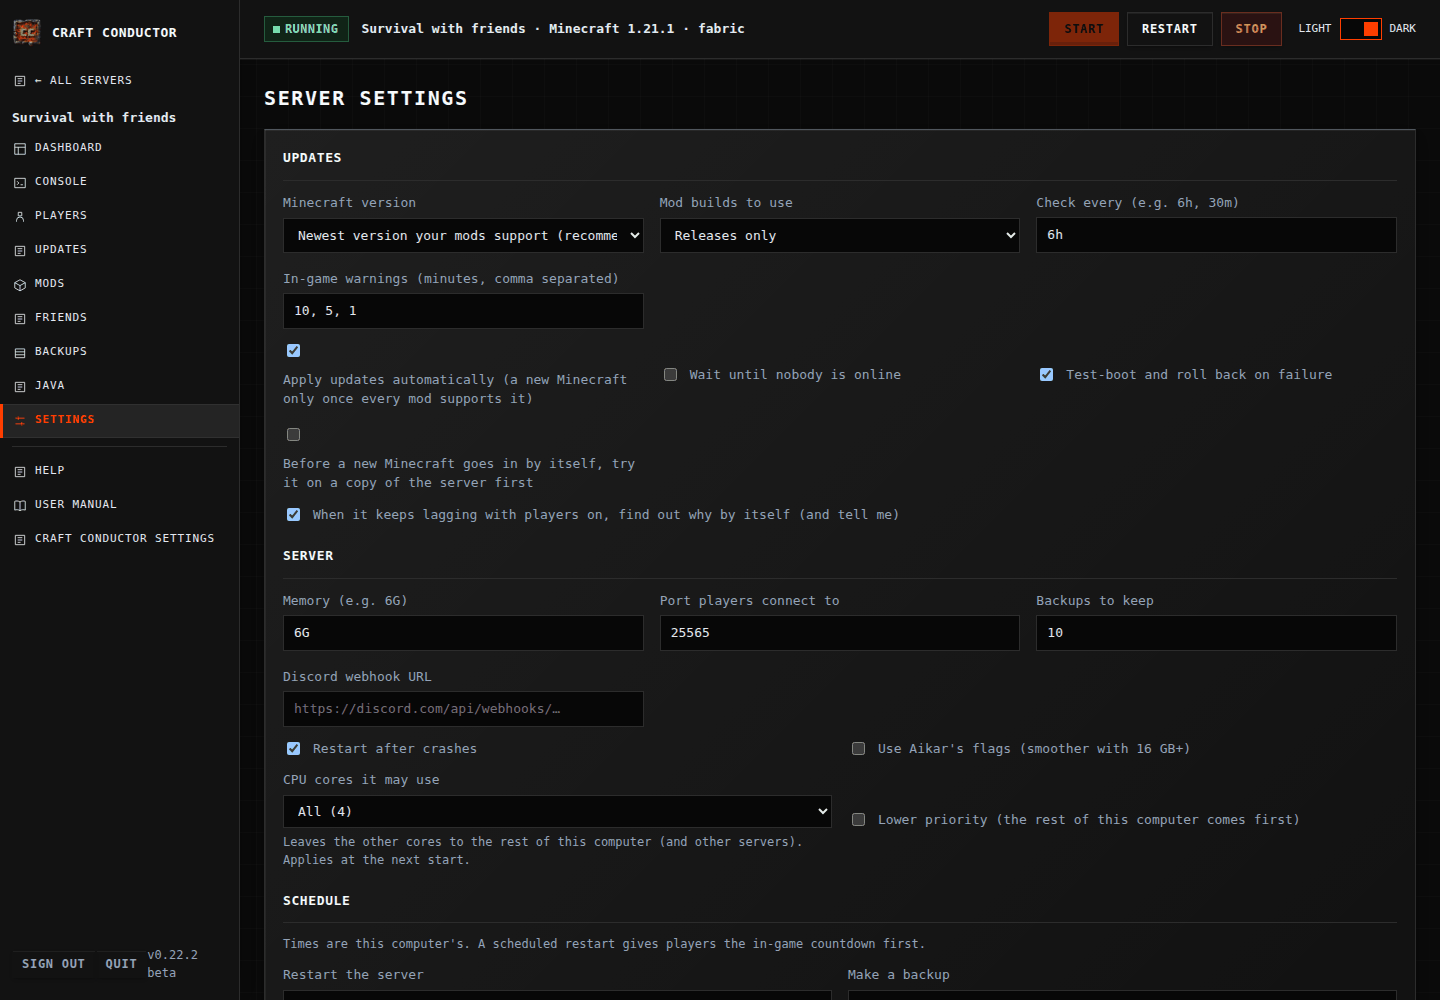
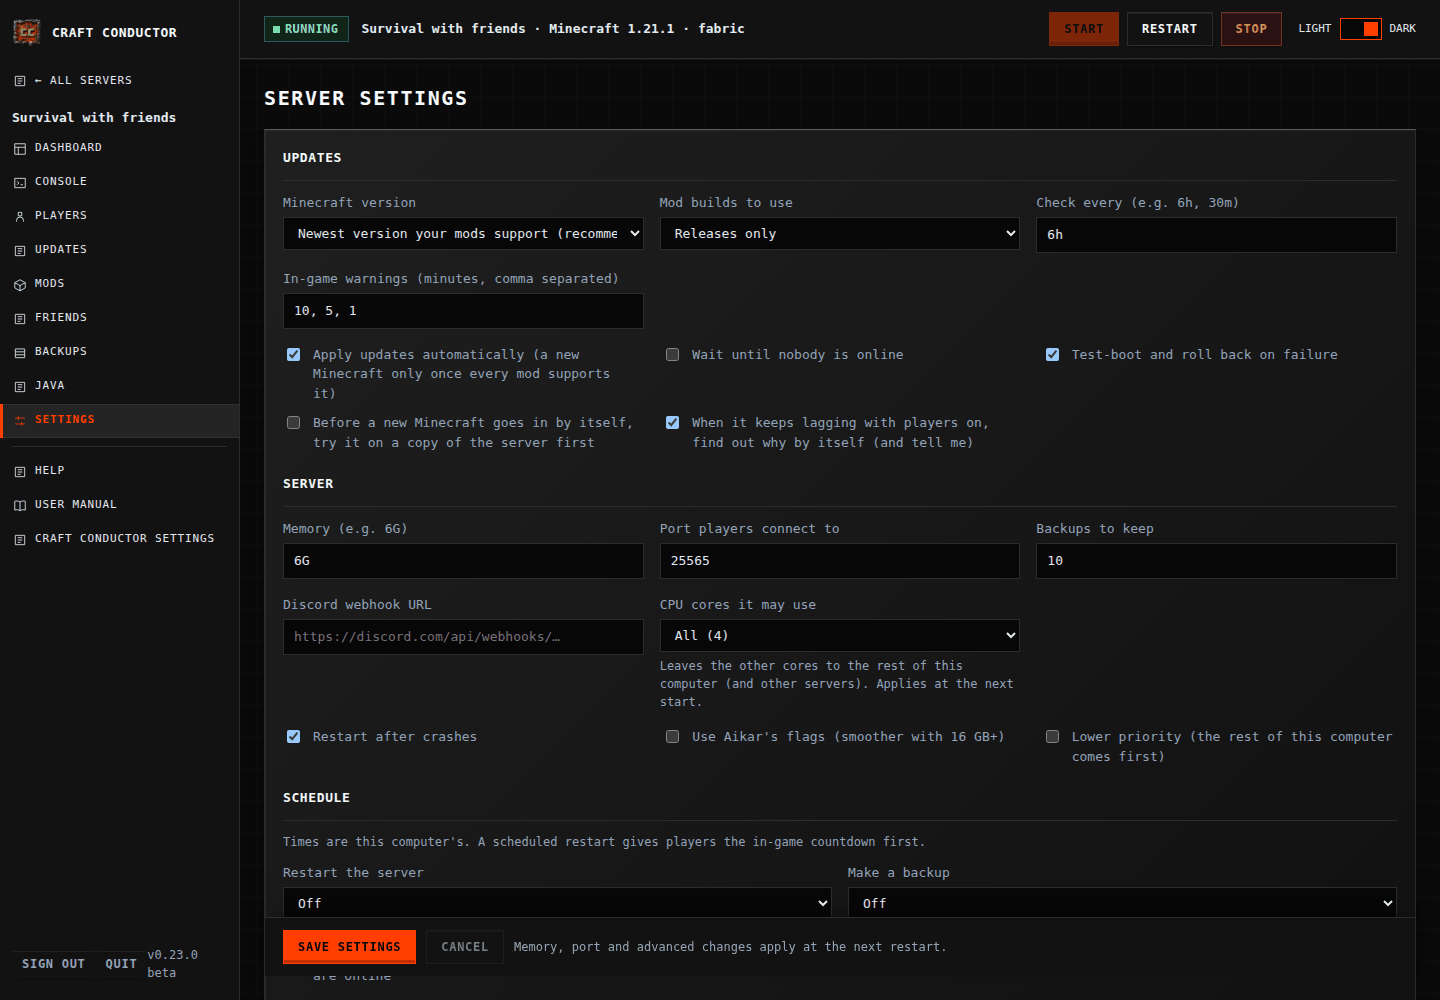
Settings: a Save/Cancel bar that stays in view, and ask before leaving unsaved changes
- Server Settings: Save settings and Cancel sit in a bar at the bottom of
  the screen while the form is in view, and say when there are unsaved
  changes. Going to another page (the menu, another server, Back) with
  unsaved changes asks: Save settings, Cancel changes or Stay here. Help and
  the user manual open over the page, so they don't ask.
- Checkboxes sit beside their words at every width (check-row), grouped in
  a .checks list; fields beside a taller one keep their own height.
- Remote access & phones: the title and Close stay at the top while the
  dialog scrolls; its "Allow access" checkbox sits beside its words.
- Browser regression steps in ui_browser.cjs; manual, changelog and the
  settings and remote-access screenshots updated.

Claude-Session: https://claude.ai/code/session_01PAt9WSdP4zNih4Gixuh8DY

diff --git a/src/craft_conductor/webui/app.js b/src/craft_conductor/webui/app.js
@@ -355,15 +355,55 @@ let timers = [];
 // upload on its way, unsaved changes, a form being filled in, a mod test's report. Then the
 // browser asks first ("Leave site?"). Guards go with an element and end when it's gone.
 let uploading = 0;
-let leaveGuards = [];  // [element, () => true when leaving now would lose something]
-function guardLeave(el, check) {
+let leaveGuards = [];  // [element, () => true when leaving now would lose something, {save, discard}?]
+// With `actions` ({save: async () => saved?, discard}), going to another page in Craft Conductor
+// asks first too: save, discard or stay (unsavedGuard, below). Closing the tab only warns.
+function guardLeave(el, check, actions = null) {
   leaveGuards = leaveGuards.filter(([e]) => e.isConnected);
-  leaveGuards.push([el, check]);
+  leaveGuards.push([el, check, actions]);
 }
 function wouldLoseWork() {
   return uploading > 0 || leaveGuards.some(([el, check]) => el.isConnected && check());
 }
 window.addEventListener("beforeunload", (e) => { if (wouldLoseWork()) { e.preventDefault(); e.returnValue = ""; } });
+function unsavedGuard() {
+  const g = leaveGuards.find(([el, check, actions]) => actions && el.isConnected && check());
+  return g ? g[2] : null;
+}
+// Before going to `target` (a #page): settle unsaved changes first. True when it may go now.
+let settling = false;
+async function mayLeaveFor(target) {
+  const guard = unsavedGuard();
+  if (!guard) return true;
+  if (settling) return false;
+  settling = true;
+  const choice = await new Promise((resolve) => {
+    const onKey = (e) => { if (e.key === "Escape") { e.preventDefault(); e.stopPropagation(); done(null); } };
+    const done = (v) => { document.removeEventListener("keydown", onKey, true); closeToast("unsaved"); resolve(v); };
+    document.addEventListener("keydown", onKey, true);
+    stickyToast("unsaved", [
+      h("strong", {}, t("You have changes that aren't saved")),
+      h("p", { class: "small" }, t("Save them, or cancel them, before you leave this page.")),
+      h("div", { class: "row mt-s" },
+        h("button", { class: "btn small primary", onclick: () => done("save") }, t("Save settings")),
+        h("button", { class: "btn small", onclick: () => done("discard") }, t("Cancel changes")),
+        h("button", { class: "btn small ghost", onclick: () => done(null) }, t("Stay here")))]);
+  });
+  settling = false;
+  if (choice === "save") return !!(await guard.save());
+  if (choice === "discard") { guard.discard(); return true; }
+  return false;
+}
+// Links within Craft Conductor (the menu, the server list…) wait for the answer before they go.
+// (Help and the user manual open over the page, which stays: no need to ask.)
+document.addEventListener("click", (e) => {
+  const a = e.target.closest && e.target.closest('a[href^="#"]');
+  if (!a || e.defaultPrevented || e.button !== 0 || e.ctrlKey || e.metaKey || e.shiftKey || e.altKey || a.target === "_blank") return;
+  const target = a.getAttribute("href");
+  if (target === location.hash || target === "#help" || target === "#manual" || !unsavedGuard()) return;
+  e.preventDefault();
+  mayLeaveFor(target).then((go) => { if (go) location.hash = target; });
+});
 
 // Polling pauses while the page can't be seen (another tab, a phone's screen off) and
 // catches up at once when it's back: no work for the server, battery or data meanwhile.
@@ -2523,16 +2563,30 @@ function webMapCard() {
 views.settings = () => {
   const form = h("form", { class: "card" });
   let edited = false;  // changes not saved yet
-  form.addEventListener("input", () => { edited = true; });
-  form.addEventListener("change", () => { edited = true; });
-  guardLeave(form, () => edited);
+  // Save settings and Cancel stay at the bottom of the screen while the settings are in view.
+  const saveBtn = h("button", { class: "btn primary", type: "submit" }, "Save settings");
+  const cancelBtn = h("button", { class: "btn", type: "button", disabled: true, onclick: () => { setEdited(false); load(); toast("Changes cancelled"); } }, "Cancel");
+  const barNote = h("span", { class: "muted small grow", role: "status" });
+  const bar = h("div", { class: "save-bar" }, saveBtn, cancelBtn, barNote);
+  const setEdited = (on) => {
+    edited = on;
+    cancelBtn.disabled = !on;
+    bar.classList.toggle("edited", on);
+    barNote.textContent = t(on ? "You have changes that aren't saved." : "Memory, port and advanced changes apply at the next restart.");
+  };
+  setEdited(false);
+  form.addEventListener("input", () => setEdited(true));
+  form.addEventListener("change", () => setEdited(true));
+  let save = async () => false;
+  guardLeave(form, () => edited, { save: () => save(), discard: () => setEdited(false) });
   const load = async () => {
     const s = await api("/api/settings").catch(() => null);
     if (!s) return;
     const f = {};
     const sel = (k, opts, labels = {}) => (f[k] = h("select", {}, opts.map((o) => h("option", { value: o }, labels[o] || o))), f[k].value = s[k], f[k]);
     const txt = (k, extra = {}) => (f[k] = h("input", { value: s[k], ...extra }));
-    const chk = (k, text) => h("label", { class: "row" }, (f[k] = h("input", { type: "checkbox", checked: s[k] })), h("span", {}, text));
+    // (each box beside its words, whatever the width: see .checks and .check-row)
+    const chk = (k, text, title) => h("label", { class: "row check-row", title }, (f[k] = h("input", { type: "checkbox", checked: s[k] })), h("span", {}, text));
     const sched = {};
     const advanced = { ...s.properties };
     const advancedEl = h("details", { class: "advanced mt-l" },
@@ -2550,35 +2604,34 @@ views.settings = () => {
           release: "Releases only", beta: "Releases and betas", alpha: "Releases, betas and alphas (least stable)" })),
         h("label", {}, "Check every (e.g. 6h, 30m)", txt("check_interval")),
         h("label", {}, "In-game warnings (minutes, comma separated)", txt("warn_minutes", { value: s.warn_minutes.join(", ") }))),
-      h("div", { class: "grid mt-s" },
+      h("div", { class: "checks mt" },
         chk("auto_upgrade", "Apply updates automatically (a new Minecraft only once every mod supports it)"),
         chk("wait_for_empty", "Wait until nobody is online"),
         chk("verify_boot", "Test-boot and roll back on failure"),
-        chk("rehearse", "Before a new Minecraft goes in by itself, try it on a copy of the server first")),
-      h("div", { class: "grid mt-s" }, chk("find_lag", "When it keeps lagging with players on, find out why by itself (and tell me)")),
+        chk("rehearse", "Before a new Minecraft goes in by itself, try it on a copy of the server first"),
+        chk("find_lag", "When it keeps lagging with players on, find out why by itself (and tell me)")),
       h("h3", { class: "mt-l" }, "Server"),
       h("div", { class: "grid" },
         h("label", {}, "Memory (e.g. 6G)", txt("memory")),
         h("label", {}, "Port players connect to", txt("port", { type: "number", min: 1024, max: 65535 })),
         h("label", {}, "Backups to keep", txt("backups_keep", { type: "number", min: 1 })),
-        h("label", {}, "Discord webhook URL", txt("discord_webhook", { type: "url", placeholder: "https://discord.com/api/webhooks/…" }))),
-      h("div", { class: "grid mt-s" }, chk("restart_on_crash", "Restart after crashes"),
-        h("label", { class: "row", title: "Garbage-collection settings that avoid lag spikes with lots of memory" },
-          (f.aikar_flags = h("input", { type: "checkbox", checked: s.aikar_flags })), h("span", {}, "Use Aikar's flags (smoother with 16 GB+)"))),
-      // Limits (limits.py): CPU cores where the computer allows it, and a lower priority everywhere.
-      h("div", { class: "grid mt-s" },
+        h("label", {}, "Discord webhook URL", txt("discord_webhook", { type: "url", placeholder: "https://discord.com/api/webhooks/…" })),
+        // Limits (limits.py): CPU cores where the computer allows it, and a lower priority everywhere.
         s.can_pin_cores ? h("label", {}, "CPU cores it may use",
           (f.cpu_cores = h("select", {}, h("option", { value: "0" }, t("All ({n})").replace("{n}", s.cpu_count)),
             Array.from({ length: Math.max(0, s.cpu_count - 1) }, (_, i) => h("option", { value: String(i + 1), selected: s.cpu_cores === i + 1 }, String(i + 1))))),
-          h("span", { class: "muted small" }, "Leaves the other cores to the rest of this computer (and other servers). Applies at the next start.")) : null,
-        h("label", { class: "row", title: "Other programs on this computer, and other servers, come first when the CPU is busy" },
+          h("span", { class: "muted small" }, "Leaves the other cores to the rest of this computer (and other servers). Applies at the next start.")) : null),
+      h("div", { class: "checks mt" },
+        chk("restart_on_crash", "Restart after crashes"),
+        chk("aikar_flags", "Use Aikar's flags (smoother with 16 GB+)", "Garbage-collection settings that avoid lag spikes with lots of memory"),
+        h("label", { class: "row check-row", title: "Other programs on this computer, and other servers, come first when the CPU is busy" },
           (f.priority = h("input", { type: "checkbox", checked: s.priority === "low" })), h("span", {}, "Lower priority (the rest of this computer comes first)"))),
       h("h3", { class: "mt-l" }, "Schedule"),
       h("p", { class: "muted small" }, "Times are this computer's. A scheduled restart gives players the in-game countdown first."),
       h("div", { class: "grid" },
         (sched.restart = schedulePicker("Restart the server", s.schedule_restart, "restart", s.schedule_restart_next)).el,
         (sched.backup = schedulePicker("Make a backup", s.schedule_backup, "backup", s.schedule_backup_next)).el),
-      chk("restart_when_empty", "Skip a scheduled restart while players are online"),
+      h("div", { class: "checks mt" }, chk("restart_when_empty", "Skip a scheduled restart while players are online")),
       h("h3", { class: "mt-l" }, "playit.gg tunnel"),
       h("div", { class: "grid" },
         h("label", {}, "This server's playit.gg address (a Minecraft Java tunnel)", txt("tunnel_address", { placeholder: "e.g. name.gl.joinmc.link (optional)", class: "mono" }),
@@ -2592,11 +2645,10 @@ views.settings = () => {
             : "That folder isn't there right now (is the drive plugged in?). Copies are skipped until it is.")),
         h("label", { class: "self-start" }, "Copies to keep there", txt("backup_copy_keep", { type: "number", min: 1 }))),
       advancedEl,
-      h("div", { class: "row mt" }, h("button", { class: "btn primary", type: "submit" }, "Save settings"),
-        h("span", { class: "muted small" }, "Memory, port and advanced changes apply at the next restart.")),
+      bar,
     );
-    form.onsubmit = (e) => {
-      e.preventDefault();
+    form.onsubmit = (e) => { e.preventDefault(); save(); };
+    save = async () => {
       const body = {
         strategy: f.strategy.value, mod_channel: f.mod_channel.value, check_interval: f.check_interval.value.trim(),
         warn_minutes: f.warn_minutes.value.split(",").map((x) => x.trim()).filter(Boolean).map(Number),
@@ -2615,7 +2667,10 @@ views.settings = () => {
       if (gb > AIKAR_ABOVE_GB && !body.aikar_flags) {
         offerAikar(gb, () => { f.aikar_flags.checked = true; act(() => api("/api/settings", { method: "POST", body: { aikar_flags: true } }), "Aikar's flags on").then(load); });
       }
-      act(() => api("/api/settings", { method: "POST", body }), "Settings saved").then((r) => { if (r) edited = false; load(); });
+      const r = await act(() => api("/api/settings", { method: "POST", body }), "Settings saved");
+      if (r) setEdited(false);
+      load();
+      return !!r;
     };
   };
   const danger = h("div", { class: "card danger-zone mt" });
@@ -4139,7 +4194,7 @@ function openRemoteAccess() {
   const close = () => { clearInterval(timer); $("#remote").remove(); };
   document.body.append(h("div", { class: "modal-backdrop", id: "remote", role: "dialog", "aria-modal": "true", "aria-labelledby": "remote-title" },
     h("div", { class: "modal remote" },
-      h("div", { class: "row" }, h("h2", { id: "remote-title", class: "grow" }, "Remote access & phones"), h("button", { class: "btn ghost small", onclick: close }, "Close")),
+      h("div", { class: "row modal-head" }, h("h2", { id: "remote-title", class: "grow" }, "Remote access & phones"), h("button", { class: "btn ghost small", onclick: close }, "Close")),
       body)));
   const step = (n, title, ...kids) => h("section", { class: "remote-step" }, h("h3", {}, `${n}. ${title}`), ...kids);
   const load = async () => {
@@ -4242,7 +4297,7 @@ function openRemoteAccess() {
       : h("p", { class: "empty" }, "No phones paired yet.");
     fill(body,
       step(1, "A strong password", pw),
-      step(2, "Let other devices connect", h("label", { class: "row" }, toggle, h("span", {}, "Allow access to this control panel from other devices (phones, other computers)")),
+      step(2, "Let other devices connect", h("label", { class: "row check-row" }, toggle, h("span", {}, "Allow access to this control panel from other devices (phones, other computers)")),
         !r.strong ? h("p", { class: "small muted" }, "Set a strong password first.") : null, restartNote),
       step(3, "Away from home", ...away, https),
       step(4, "Pair a phone (or a co-admin)",
@@ -6294,6 +6349,7 @@ function route() {
   closeHelp(true);
   closeAppNavigation();
   closeBrowser(true);
+  shownHash = location.hash;
   const hash = (location.hash || "#servers").slice(1);
   document.body.classList.remove("browse-mode");
   if (hash.startsWith("browse")) {  // the mod browser window: no navigation around it
@@ -6323,7 +6379,18 @@ function route() {
   routed = true;
 }
 let routed = false;
-window.addEventListener("hashchange", () => { if (!$("#app").classList.contains("hidden")) route(); });
+// The page on show (the address bar can be ahead of it while unsaved changes are settled).
+let shownHash = location.hash;
+window.addEventListener("hashchange", async () => {
+  if ($("#app").classList.contains("hidden")) return;
+  if (unsavedGuard()) {  // Back, Forward or a typed address: stay on the page until it's settled
+    const target = location.hash;
+    history.replaceState(null, "", shownHash || "#servers");
+    if (!(await mayLeaveFor(target))) return;
+    history.replaceState(null, "", target);
+  }
+  route();
+});
 
 // Responsive application navigation. Existing routes and permissions stay in renderNav().
 const appNavigation = window.matchMedia("(max-width: 1023px)");

diff --git a/src/craft_conductor/webui/style.css b/src/craft_conductor/webui/style.css
@@ -338,6 +338,20 @@ details.advanced[open] > summary { margin-bottom: 8px; }
 .row > input.grow { flex: 1; min-width: 200px; }
 .row.check-row { flex-wrap: nowrap; align-items: flex-start; }
 .row.check-row input { margin-top: 3px; flex: none; }
+.row.check-row > span { min-width: 0; }
+/* a list of checkboxes, each beside its words: as many columns as fit, one on a phone */
+.grid > label { align-content: start; }  /* (a field beside a taller one keeps its own height) */
+.checks { display: grid; gap: 10px 24px; grid-template-columns: repeat(auto-fill, minmax(min(100%, 300px), 1fr)); align-items: start; }
+/* a dialog's title and Close stay at the top while it scrolls (sticky counts from inside the .modal padding: -24px is its edge) */
+.modal .modal-head { position: sticky; top: -24px; z-index: 2; margin: -24px -26px 14px; padding: 16px 26px 12px;
+  background: var(--panel); border-bottom: 1px solid var(--border); }
+.modal .modal-head h2 { margin: 0; }
+/* Save settings and Cancel: at the bottom of the screen while the form is in view */
+.save-bar { position: sticky; bottom: 0; z-index: 5; display: flex; gap: 10px; align-items: center; flex-wrap: wrap;
+  margin: 18px -18px -18px; padding: 12px 18px; background: var(--panel); border-top: 1px solid var(--border);
+  border-radius: 0 0 var(--radius) var(--radius); box-shadow: 0 -8px 16px -10px var(--shadow-strong); }
+.save-bar.edited { border-top-color: var(--accent); }
+.save-bar.edited > span { color: var(--warn-fg); }
 .ok-text { color: var(--ok-fg); }
 .warn-text { color: var(--warn-fg); }
 .bad-text { color: var(--bad-fg); }

diff --git a/CHANGELOG.md b/CHANGELOG.md
@@ -6,7 +6,12 @@ its fix will say which version it's in.
 
 ## Upcoming version (not released yet)
 
+**Changed**
+- Server **Settings**: **Save settings** and **Cancel** stay at the bottom of the screen while you scroll, and say when something isn't saved yet. Going to another page with changes not saved asks you to **Save settings** or **Cancel changes** first (or **Stay here**); before, the changes were silently lost.
+- The **Remote access & phones** dialog keeps its title and **Close** at the top while you scroll, so you don't have to scroll back up to close it.
+
 **Fixed**
+- On a server's **Settings** page, and for **Allow access to this control panel from other devices**, checkboxes no longer end up above their words (or several lines away from them) on some screen widths: each sits beside its words. The Settings checkboxes are now grouped together under the fields they belong with.
 - Pairing a phone at the **Tailscale, secure** address opened a page saying "This address isn't allowed… add it to [web] allowed_hosts" when Tailscale was already serving the control panel (for example, set up before Craft Conductor was reinstalled), because **Use Tailscale for the phone app** was never pressed. The Tailscale address is now allowed as soon as Craft Conductor offers it.
 
 ## 0.23.0 (2026-10-05)

diff --git a/src/craft_conductor/webui/manual.md b/src/craft_conductor/webui/manual.md
@@ -254,6 +254,8 @@ Each Minecraft version needs a particular Java. Craft Conductor finds or downloa
 
 The server's version and upgrade choices, memory (with Aikar's flags above 16 GB), port, name and Minecraft's settings.
 
+Nothing changes until you press **Save settings**. It stays at the bottom of the screen with **Cancel** (which puts back what's saved) while you scroll through the settings, and says when you have changes that aren't saved. Going to another page with changes not saved (the menu, another server, the browser's Back button) asks first: **Save settings**, **Cancel changes** or **Stay here**. Help and the user manual open over the page without asking.
+
 **Minecraft version:** **Newest version your mods support** (recommended: it moves up once every mod works on the next one), **Only the newest version** (waits until every mod supports the very newest), or **Stay on this version** (mods still update). **Mod builds to use:** releases only, or betas and alphas too (less stable).
 
 **Limits** (for several servers on one computer), from the next start:
